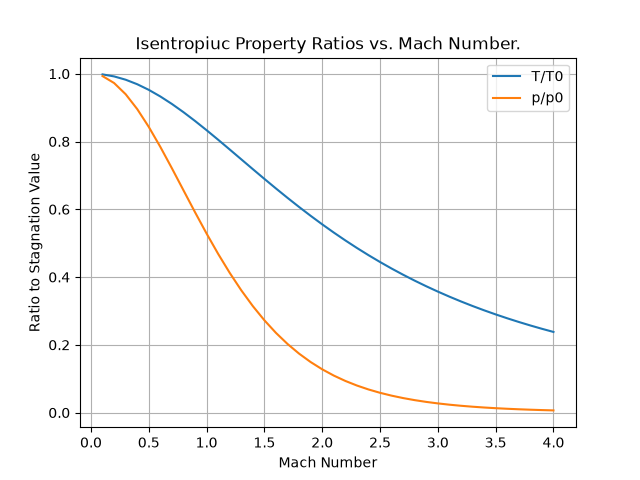
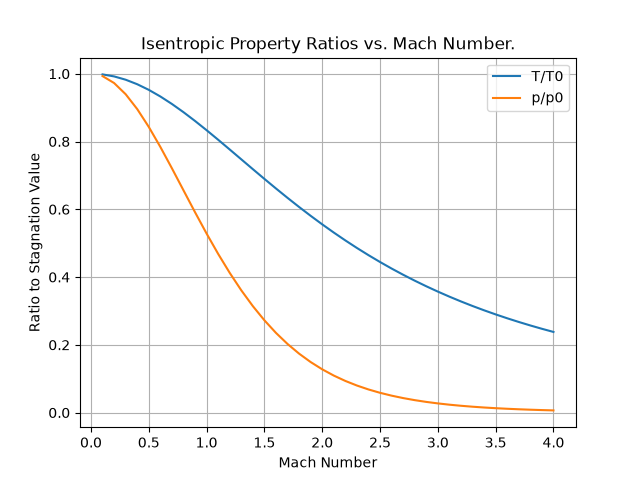
mach_from_area edge cases

Changed region(s): [[0.2188, 0.0625, 0.8125, 0.125]]

diff --git a/solver/isentropic.py b/solver/isentropic.py
@@ -15,7 +15,7 @@ def P_ratio(M, gamma = 1.4):
 result = P_ratio(M)
 
 
-plt.title("Isentropiuc Property Ratios vs. Mach Number.")
+plt.title("Isentropic Property Ratios vs. Mach Number.")
 plt.plot(M, Tresult, label="T/T0")
 plt.xlabel("Mach Number")
 plt.ylabel("Ratio to Stagnation Value")
@@ -45,9 +45,15 @@ plt.savefig("plots/area_ratio.png")
 plt.show()
 
 
-def mach_from_area(AR, gamma=1.4):
+def mach_from_area(AR, supersonic = True, gamma=1.4):
+    if AR<1:
+        raise ValueError("AR must be greater than 1")
+    if AR == 1:
+        return(1.0)
+    if supersonic: 
+        low, high = 1.0001, 50
+    else: low, high = 0.0001, 0.9999
     def f(M):
         return area_ratio(M, gamma) - AR
-    return brentq(f, 1.0001, 50)
-print(mach_from_area(2.0))
-print(area_ratio(mach_from_area(2.0)))
+    return brentq(f, low, high)
+print(mach_from_area(1.0))
